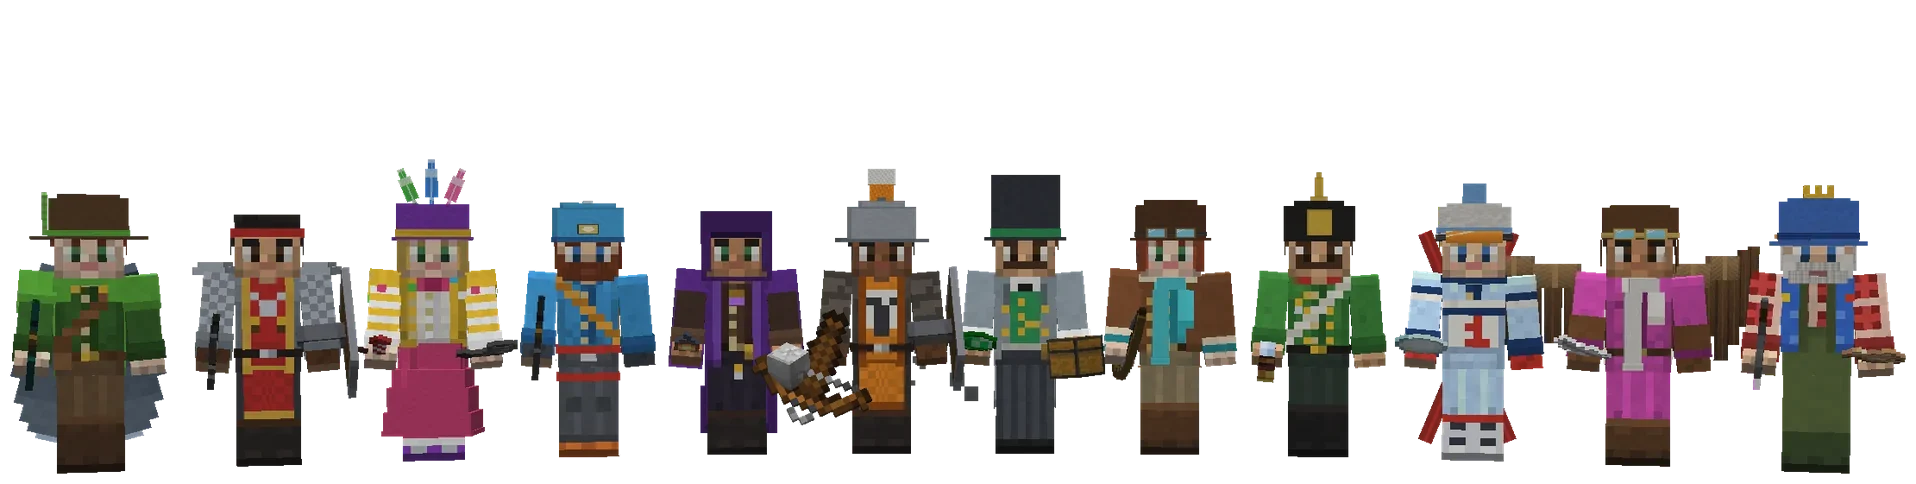
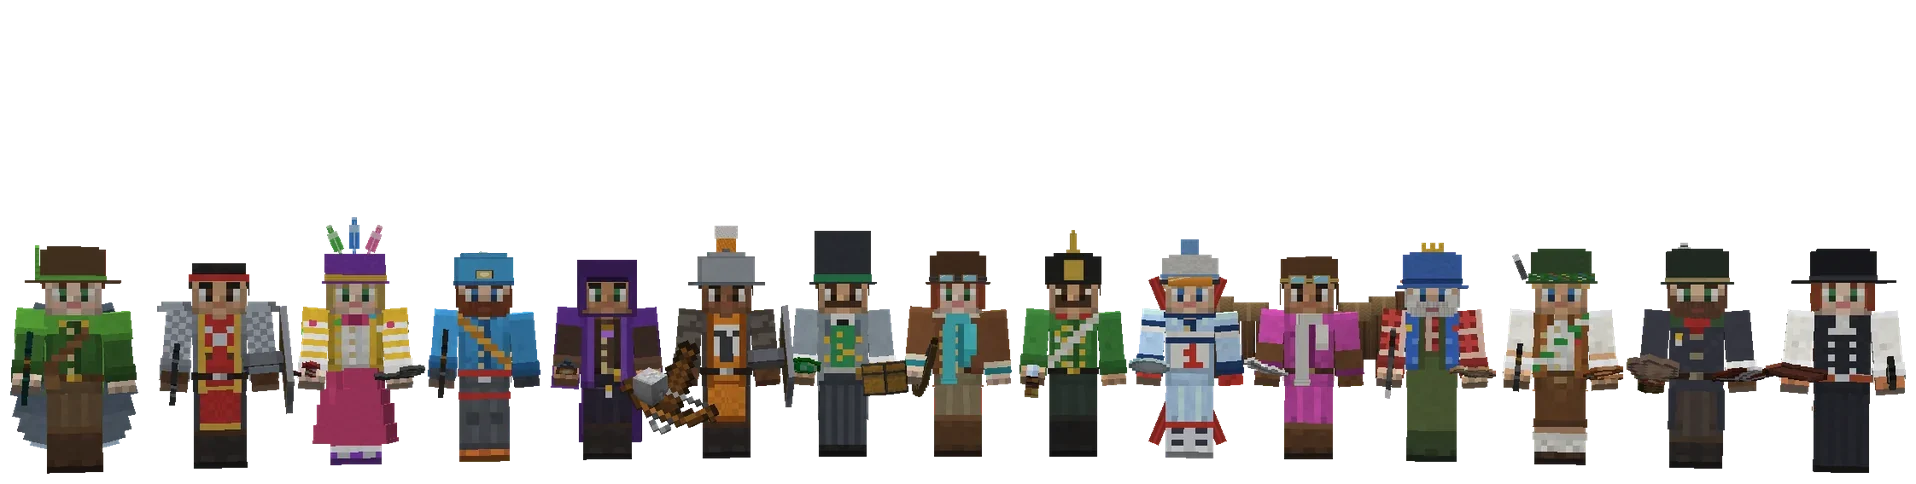
Neue Modi: Figuren-Bilder der Webseite, Gruppe mit fünfzehn, STAND
- Neu: Webseiten-Bilder figur-maibaumklau, figur-dorfkrimi und figur-baumeister aus dem echten Client 26.3, freigestellt im gleichen Ausschnitt wie die übrigen
- Verbessert: Gruppenbild der Webseite mit allen fünfzehn Modus-Figuren
- Verbessert: docs/lobby.md – Kostüm-Tabelle um die drei neuen Figuren ergänzt

Verfasst mit Claude 🤖

Claude-Session: https://claude.ai/code/session_017GS6gz5nUzuwo4JsZqooHF

diff --git a/STAND.md b/STAND.md
@@ -421,8 +421,34 @@
   28/31: Sommerpause-Schild kam zu spät, bekannt). Bilder mit Client 26.3 nur lokal (vorher/nachher, 3 und 15
   Blöcke, mit/ohne Paket, Tag/Nacht).
 
+- 17.11. abends: **Drei neue Modi im Netzwerk** (Maibaumklau, Dorfkrimi, Baumeister; Branch `claude/neue-modi-netz`,
+  wie die fünf vom 16.11.): `DEFAULT_MODES`, `MODE_REPOS` (`pmornhart/morni-maibaumklau`, `-dorfkrimi`,
+  `-baumeister`), `MODE_JARS`, `MODE_MEMORY_MB` je 1 GB (kleine Welten; alle 18 Server zusammen 30,75 GB),
+  Hauptwert der Bestenliste (Maibaumklau `captures`, Dorfkrimi und Baumeister `wins`). **Einstellungs-Katalog** mit
+  allen Schlüsseln der config.yml außer `welt` samt „Zurück ins Spiel“ (`/maibaumconfig` 19, `/krimiconfig` 21 –
+  `runde.zwei-wilderer-ab` 4–17, 17 = nie –, `/baumeisterconfig` 22 – Parzelle nur gerade 16–40, gesperrte/erlaubte
+  Wörter als Listen), Kopien der config.yml in `packages/shared/test/mode-configs/` (gleich wie auf
+  `claude/erster-stand` der Repos). **Statistik** de/en (`stat-keys.ts`; Baumeister `best_score` als Sterne „4,50“,
+  Spielarten klassisch/schnell/zu zweit als Tabelle im Profil). **Webseite**: Modus-Seiten mit „So wird gespielt“ und
+  Befehlen (`mode-guides.ts`), Befehle-Seite, Kompass-Symbole (Tanne, Lupe, Mauer) und Modusfarben, Demo.
+  **Lobby**: Figuren im Kostüm-Stil (`figuren.ts`, Tabelle in `docs/lobby.md`) – Maibaum-Bursch mit Federhut samt
+  Maibaum-Kranz und weiß-blauen Bändern, grün-weißer Schärpe, Seil, Axt; Kommissar mit Jägerhut und Gamsbart,
+  Lodenmantel, rotem Halstuch, Pinsel und Notizbuch; Baumeisterin mit Zimmermannshut, schwarzer Kluft, Zollstock,
+  Ziegel – über MineSkin signiert. Schlossmarkt jetzt mit acht Ständen (8 Blöcke Abstand, innen nicht näher als x ±18
+  wegen der Launchpads), die Blumenfrau verkauft am westlichen Marktkarren, sobald alle Stände besetzt sind; der
+  Weihnachtsmarkt hängt keine Kette zwischen fast aneinanderstoßende Markisen. Webseiten-Bilder `figur-maibaumklau`,
+  `figur-dorfkrimi`, `figur-baumeister` und `gruppe.webp` (jetzt alle fünfzehn) aus dem echten Client 26.3,
+  freigestellt wie die anderen. Tests: 116 shared/Katalog-, 117 Baukasten- (Bauplan-Prüfung ohne Funde), 272 Server-,
+  65 JUnit, Typen, Prettier, Web- und Demo-Bau. Echt: Paper 26.1.2 + Netzwerk-Plugin + Test-Hub, Lobby mit dem echten
+  Selbstbau neu gebaut (152 s), `schlossmarkt-test` **37/37** (fünfzehn Figuren je einmal, acht am Schlossmarkt,
+  Kompass-Menü mit fünfzehn Modi in fünf Reihen; erster Lauf 34/37: das Sommerpause-Schild kam zu spät beim
+  Test-Spieler an, auf dem Server stand es richtig), `lobby-test` **34/34** (ein Lauf davor 33/34, weil der frische
+  Test-Server noch mit `allow-flight=false` lief – die Lobby setzt es erst für den nächsten Start). Bilder mit Client
+  26.3 nur lokal.
+
 ## Offen
 
+- **Neue Modi (17.11. abends):** Maibaumklau, Dorfkrimi und Baumeister bekommen ihren Server erst, wenn ihr Repo ein Release hat (heute nur Branch `claude/erster-stand`, Philips Go). Die Figuren-Bilder der Webseite zeigen die drei neuen Kostüme; im Spiel nicht mit echten Spielern ausprobiert.
 - **Bauplan-Prüfung:** keine offenen Funde mehr (`packages/builder/test/pruefung-offen.ts` leer) – Schloss, Schlosstreppe, Schlossmarkt und alle Saisons samt ihrer Blöcke (17.11.).
 - MorniHosting `plugins/mornicraft/` auf MorniCraft 1.11.1 nachziehen.
 - MorniCraft ist bis zum Einschalten aus (MorniSMP steht für neue Installationen jetzt auf „an“; bestehende im Panel umschalten).

diff --git a/docs/lobby.md b/docs/lobby.md
@@ -236,6 +236,9 @@ malt über die Grundkleidung – `costume` im Outfit; Dorfleute sind unveränder
 | Wintersport | Skifahrerin: Rennanzug mit Startnummer, Skischuhe, rote Handschuhe     | Bommelmütze mit Skibrille, Ski am Rücken | Schneeball                        |
 | Adlerflug   | Flieger: Overall, weißer Schal, Stulpen, gefaltete Schwingen gemalt    | Fliegerhaube, große Adlerschwingen       | Feder                             |
 | Angelkönig  | Fischer: Anglerweste mit Ködern, Karohemd, Wathose                     | Fischerhut mit kleiner Krone             | Angel, Kabeljau                   |
+| Maibaumklau | Maibaum-Bursch: grün-weiße Schärpe, Seil, Weste, Lederhose             | Federhut mit Maibaum-Kranz und Bändern   | Axt, Leine                        |
+| Dorfkrimi   | Kommissar: Lodenmantel, rotes Halstuch, Notizbuch in der Brusttasche   | Jägerhut mit Gamsbart                    | Pinsel, Notizbuch                 |
+| Baumeister  | Baumeisterin: schwarze Kluft mit Perlmuttknöpfen, Zollstock, Gürtel    | Zimmermannshut mit breiter Krempe        | Ziegel, Schaufel                  |
 
 Ohne Paket und auf Bedrock trägt der Skin alles allein (Hüte, Umhänge, Seile, Schals sind gemalt). Ein Gegenstand mit
 Komponenten (z. B. ein Schild mit Muster) steht als `name{komponenten}` in `holds` (`itemSnbtOf` in `village.ts`).
